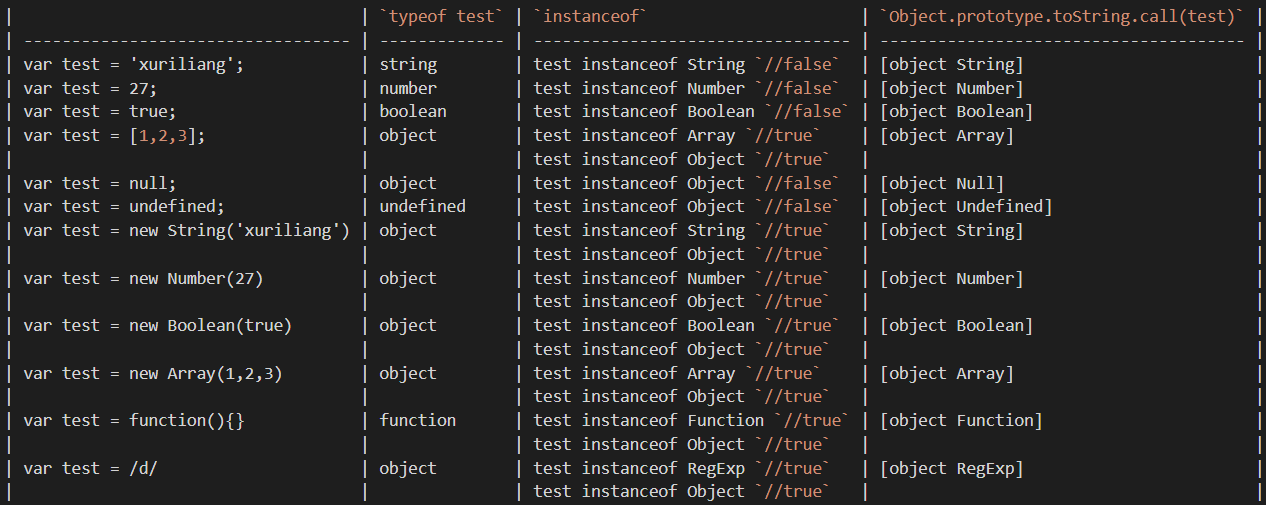
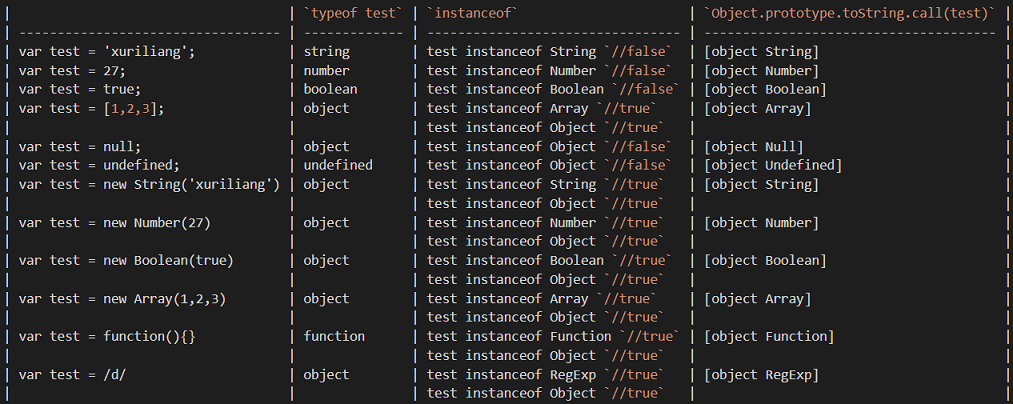
深拷贝与浅拷贝；

diff --git a/JavaScript/深拷贝与浅拷贝.md b/JavaScript/深拷贝与浅拷贝.md
@@ -1,0 +1,258 @@
+[如何写出一个惊艳面试官的深拷贝?](https://juejin.cn/post/6844903929705136141)  
+[JS 从零手写一个深拷贝](https://www.cnblogs.com/echolun/p/16157161.html)  
+
+# 1、浅拷贝
+浅拷贝一个对象时，如果属性是基本类型，拷贝的就是基本类型的值，如果属性是引用类型，拷贝的就是内存地址，所以如果原对象或拷贝后的对象改变了引用类型的值，就会影响到另一个对象。  
+
+![image.png](./images/shallow-clone.png)
+
+## 1) object.assign()
+它不会拷贝对象的继承属性，不会拷贝对象的不可枚举的属性；
+可以拷贝 Symbol 类型的属性。
+
+```javascript
+const cloneObj = Object.assign({}, obj);
+```
+
+```javascript
+let obj1 = { a: { b: 1 }, [Symbol(1)]: 1 };
+Object.defineProperty(obj1, 'innumerable', {
+    value: '不可枚举属性',
+    enumerable: false
+});
+
+let obj2 = Object.assign({}, obj1)
+obj1.a.b = 2;
+console.log(obj1); // {a: {b: 2}, innumerable: '不可枚举属性', Symbol(1): 1}
+console.log(obj2); // {a: {b: 2}, Symbol(1): 1}
+```
+
+Object.assign() 方法只能拷贝源对象的可枚举的自身属性，同时拷贝时无法拷贝属性的特性们，而且访问器属性会被转换成数据属性，也无法拷贝源对象的原型，该方法配合 Object.create() 方法可以实现上面说的这些。
+```javascript
+Object.create(
+    Object.getPrototypeOf(obj),
+    Object.getOwnPropertyDescriptors(obj)
+);
+```
+
+## 2) 对象和数组的扩展运算符
+对象的扩展运算符等同于使用Object.assign()方法。
+
+```javascript
+let cloneObj = { ...obj }
+let cloneArr = [ ...arr ];
+```
+
+## 3) 数组的 slice() 和 concat()
+```javascript
+arr.slice(0)
+[].concat(arr)
+```
+
+## 4) Array.from()
+```javascript
+Array.from(arr)
+```
+
+# 2、深拷贝
+深拷贝将一个对象从内存中完整的拷贝一份出来，从堆内存中开辟一个新的区域存放新对象，且修改新对象不会影响原对象。这两个对象是相互独立、不受影响的，彻底实现了内存上的分离。  
+
+![image.png](./images/deep-clone.png)
+
+## 1) JSON.parse(JSON.stringify())
+这种写法非常简单，而且可以应对大部分的应用场景，但是它还是有很大缺陷的，比如拷贝其他引用类型、循环引用等情况。
+
+- 拷贝的对象的值中如果有函数、undefined、symbol 这几种类型，经过 JSON.stringify 序列化之后的字符串中这个键值对会消失；
+- 拷贝 Date 引用类型会变成字符串；
+- 拷贝 RegExp 引用类型会变成空对象；
+- 对象中含有 NaN、Infinity 以及 -Infinity，会变成 null；
+- 无法拷贝不可枚举的属性；
+- 无法拷贝对象的原型链；
+- 无法拷贝对象的循环应用，即对象成环 (obj[key] = obj)，成环时JSON.stringify()会报错。
+
+```javascript
+function Obj() {
+    this.obj = { a: 1 };
+    this.arr = [1, 2, 3];
+    this.func = function() { alert(1) }; // 丢失
+    this.und = undefined; // 丢失
+    this.sym = Symbol(1); // 丢失
+    this.date = new Date(0); // 变成字符串
+    this.reg = /123/; // 变成空对象
+    this.NaN = NaN; // 变成null
+    this.infinity = Infinity; // 变成null
+}
+Obj.prototype.protoVal = [11, 22, 33]; // 丢失
+let obj1 = new Obj();
+Object.defineProperty(obj1, 'innumerable', { // 丢失
+    enumerable: false,
+    value: 'innumerable'
+});
+// obj1.self=obj1; 成环时JSON.stringify()会报错
+console.log('obj1', obj1);
+
+let str = JSON.stringify(obj1);
+let obj2 = JSON.parse(str);
+console.log('obj2', obj2);
+/*
+obj: {a: 1},
+arr: [1, 2, 3],
+date: "1970-01-01T00:00:00.000Z",
+reg: {},
+NaN: null,
+infinity: null,
+[[Prototype]]: Object
+*/
+```
+
+## 2) 递归实现 -- 基础版
+通过 for in 遍历对象的属性值，
+如果是原始类型，无需继续拷贝，直接返回；
+如果是引用类型，创建一个新的对象，遍历需要克隆的对象，将需要克隆对象的属性执行深拷贝后依次添加到新对象上。
+
+- 支持判断空对象null
+- 兼容普通对象和数组
+
+```javascript
+function isObject(obj) {
+    return obj !== null && (typeof obj === "object" || typeof obj === "function");
+}
+
+function deepClone(obj) {
+    if (!isObject(obj)) { // 如果不是对象直接返回
+        return obj;
+    }
+
+    const newObj = Array.isArray(obj) ? [] : {}; // 如果是对象，确定是对象还是数组
+    for (const key in obj) {
+        newObj[key] = deepClone(obj[key]); // 递归
+    }
+    return newObj;
+}
+```
+虽然利用递归能实现一个深拷贝，但还是有一些问题没有完全解决，例如：
+
+- 不能复制不可枚举的属性以及 Symbol 类型；
+- 对于 Array、Date、RegExp、Error、Function 这样的引用类型并不能正确地拷贝；
+- 对象的属性里面成环，即循环引用没有解决。
+
+## 3) 递归实现1
+
+- 使用 Reflect.ownKeys 方法遍历对象的不可枚举属性以及 Symbol 类型；
+- 当参数为 Date、RegExp 类型，则直接生成一个新的实例返回；
+- 利用 Object 的 getOwnPropertyDescriptors 方法可以获得对象的所有属性，以及对应的特性，顺便结合 Object 的 create 方法创建一个新对象，并继承传入原对象的原型链；
+- 利用 WeakMap 类型作为 Hash 表，保存已拷贝的对象，如果存在循环，则引用直接返回 WeakMap 存储的值。
+
+```javascript
+const deepClone = function(obj, hash = new WeakMap()) {
+    if (obj.constructor === Date)
+        return new Date(obj) // 日期对象直接返回一个新的日期对象
+
+    if (obj.constructor === RegExp)
+        return new RegExp(obj) //正则对象直接返回一个新的正则对象
+
+    //如果循环引用了就用 weakMap 来解决
+    if (hash.has(obj)) return hash.get(obj)
+
+    let cloneObj = Object.create(Object.getPrototypeOf(obj), Object.getOwnPropertyDescriptors(obj))
+
+    hash.set(obj, cloneObj)
+
+    for (let key of Reflect.ownKeys(obj)) {
+        cloneObj[key] = (isObject(obj[key]) && typeof obj[key] !== 'function') ? deepClone(obj[key], hash) : obj[key]
+    }
+
+    return cloneObj
+}
+```
+
+## 4) 递归实现2
+
+### a. 解决对象的循环引用
+解决循环引用问题，我们可以额外开辟一个存储空间（**WeakMap**结构），来存储当前对象和拷贝对象的对应关系，当需要拷贝当前对象时，先去存储空间中找，有没有拷贝过这个对象，如果有的话直接返回，如果没有的话继续拷贝，这样就巧妙化解的循环引用的问题。
+
+```javascript
+function deepClone(obj, map = new WeakMap()) {
+    if (!isObject(obj)) {
+        return obj;
+    }
+
+    if (map.has(obj)) { // 如果已经拷贝过，直接返回
+        return map.get(obj);
+    }
+
+    const newObj = Array.isArray(obj) ? [] : {};
+
+    map.set(obj, newObj); // 保存当前对象对应的拷贝后的对象
+
+    for (const key in obj) {
+        newObj[key] = deepClone(obj[key], map);
+    }
+    return newObj;
+}
+```
+
+### b. 判断对象的具体类型
+```javascript
+const getObjectType = (obj) => {
+    return Object.prototype.toString.call(obj);
+}
+```
+
+```javascript
+// 可遍历类型
+const arrType = '[object Array]';
+const objType = '[object Object]';
+const mapType = '[object Map]';
+const setType = '[object Set]';
+const argType = '[object Arguments]';
+
+// 不可遍历
+const boolType = '[object Boolean]';
+const numType = '[object Number]';
+const strType = '[object String]';
+const dateType = '[object Date]';
+const errType = '[object Error]';
+const regexpType = '[object Regexp]';
+const symbolType = '[object Symbol]';
+const funType = '[object Function]';
+```
+
+### c. 兼容其它可遍历的引用数据类型
+```javascript
+// 将可遍历类型做个集合
+const traverseTypes = [arrType, objType, mapType, setType, argType];
+```
+
+### d. 兼容不可遍历的引用数据类型
+
+
+```javascript
+let obj = {
+    num: 0,
+    str: "",
+    boolean: true,
+    unf: undefined,
+    nul: null,
+    obj: { name: "我是一个对象", id: 1 },
+    arr: [0, 1, 2],
+    func: function () {
+        console.log("我是一个函数");
+    },
+    date: new Date(0),
+    reg: new RegExp("/我是一个正则/ig"),
+    [Symbol("1")]: 1,
+};
+Object.defineProperty(obj, "innumerable", {
+    enumerable: false,
+    value: "不可枚举属性",
+});
+obj = Object.create(obj, Object.getOwnPropertyDescriptors(obj));
+obj.loop = obj; // 设置loop成循环引用的属性
+
+let cloneObj = deepClone(obj);
+cloneObj.arr.push(4);
+
+console.log("obj", obj);
+console.log("cloneObj", cloneObj);
+```

diff --git a/CSS/懒加载-判断元素是否出现在视窗.md b/CSS/懒加载-判断元素是否出现在视窗.md
@@ -2,12 +2,10 @@
 
 ## 1) 偏移尺寸 offset
 偏移尺寸 offset 包含元素在屏幕上占用的所有视觉空间。元素在页面上的视觉空间由其高度和宽度决定，包括所有内边距、滚动条和边框（但不包含外边距）。以下 4 个属性用于取得元素的偏移尺寸。  
-- offsetHeight，元素在垂直方向上占用的像素尺寸，包括它的高度、水平滚动条高度（如果可
-见）和上、下边框的高度。
+- offsetHeight，元素在垂直方向上占用的像素尺寸，包括它的高度、水平滚动条高度（如果可见）和上、下边框的高度。
 - offsetLeft，元素左边框外侧距离包含元素左边框内侧的像素数。
 - offsetTop，元素上边框外侧距离包含元素上边框内侧的像素数。
-- offsetWidth，元素在水平方向上占用的像素尺寸，包括它的宽度、垂直滚动条宽度（如果可
-见）和左、右边框的宽度。
+- offsetWidth，元素在水平方向上占用的像素尺寸，包括它的宽度、垂直滚动条宽度（如果可见）和左、右边框的宽度。
 
 ![image.png](./images/offset.png)
 

diff --git a/README.md b/README.md
@@ -13,3 +13,4 @@ Web前端基础，前端面试，html、CSS、JavaScript、TypeScript、Vue、Re
 
 ## JavaScript
 - [JavaScript基础](./JavaScript/JavaScript%E5%9F%BA%E7%A1%80.md)
+- [深拷贝与浅拷贝](./JavaScript/%E6%B7%B1%E6%8B%B7%E8%B4%9D%E4%B8%8E%E6%B5%85%E6%8B%B7%E8%B4%9D.md)
